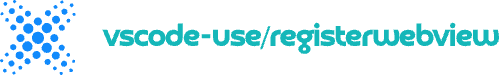
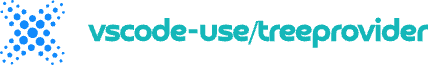
chore: update kv

diff --git a/README.md b/README.md
@@ -1,5 +1,5 @@
 <p align="center">
-<img src="./assets/kv.png" alt="vscode-use/registerwebview">
+<img src="./assets/kv.png" alt="vscode-use/treeprovider">
 </p>
 <p align="center"> English | <a href="./README_zh.md">简体中文</a></p>
 

diff --git a/README_zh.md b/README_zh.md
@@ -1,5 +1,5 @@
 <p align="center">
-<img src="./assets/kv.png" alt="vscode-use/registerwebview">
+<img src="./assets/kv.png" alt="vscode-use/treeprovider">
 </p>
 <p align="center"> English | <a href="./README_zh.md">简体中文</a></p>
 
